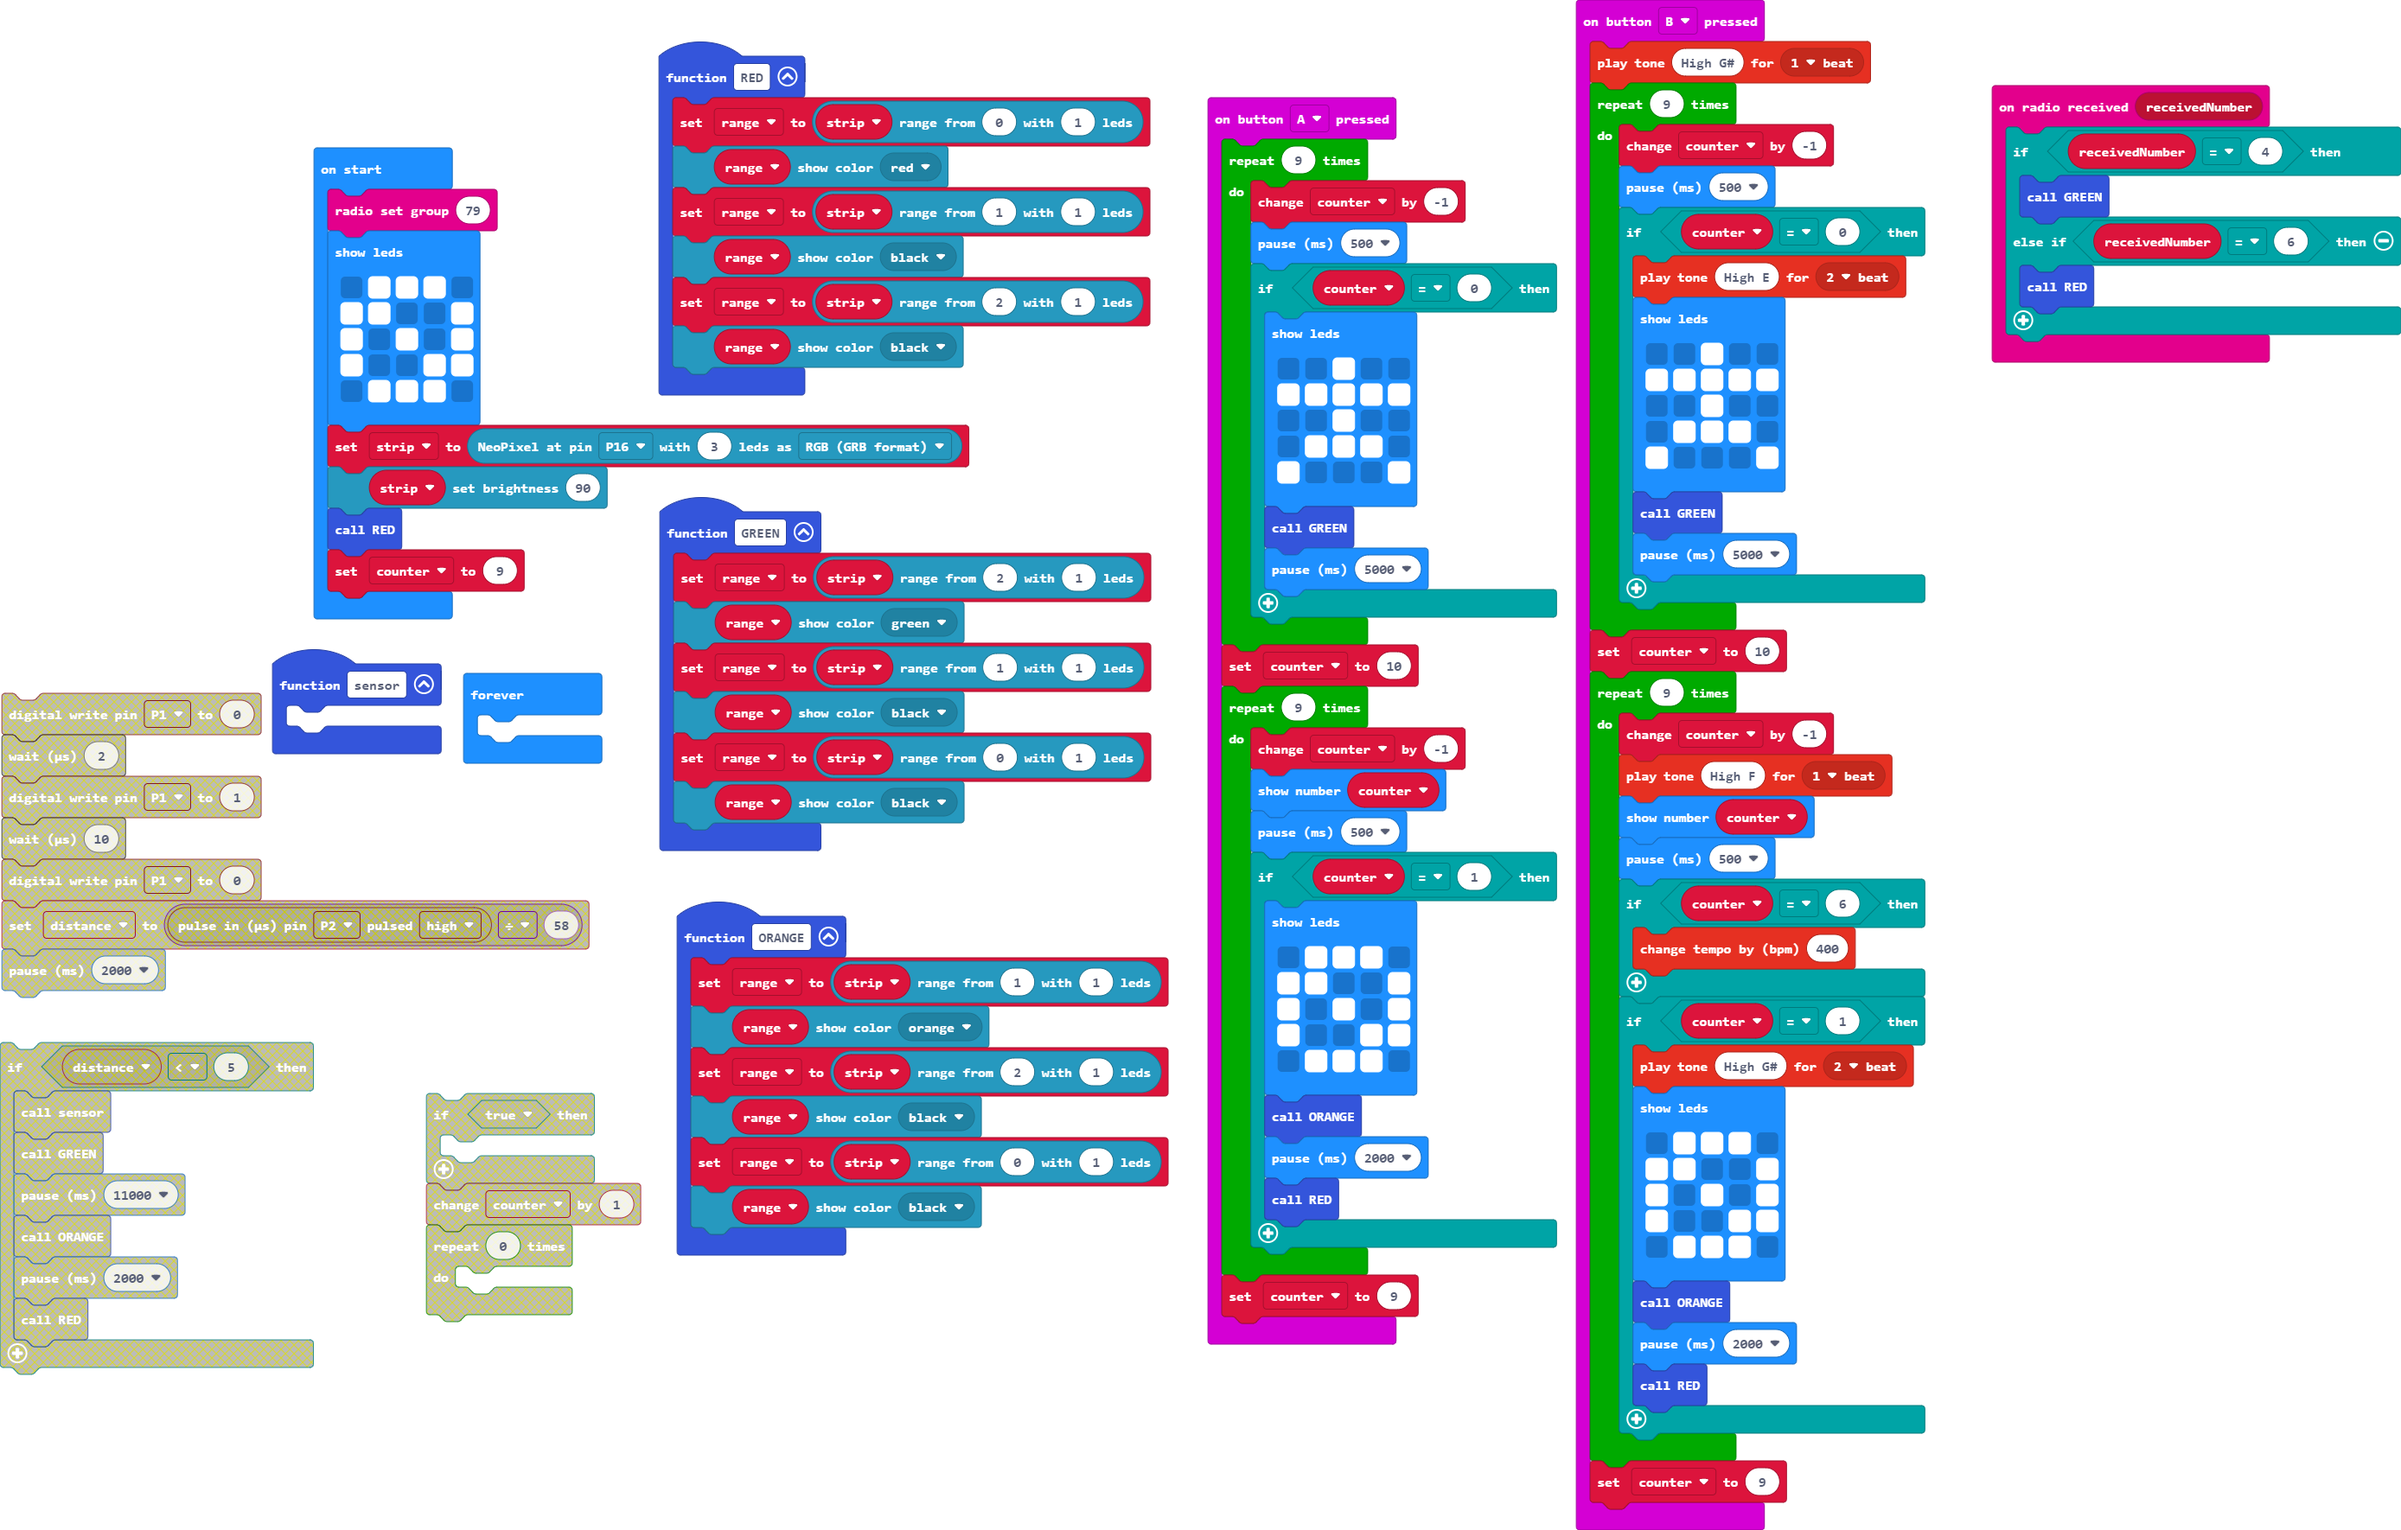
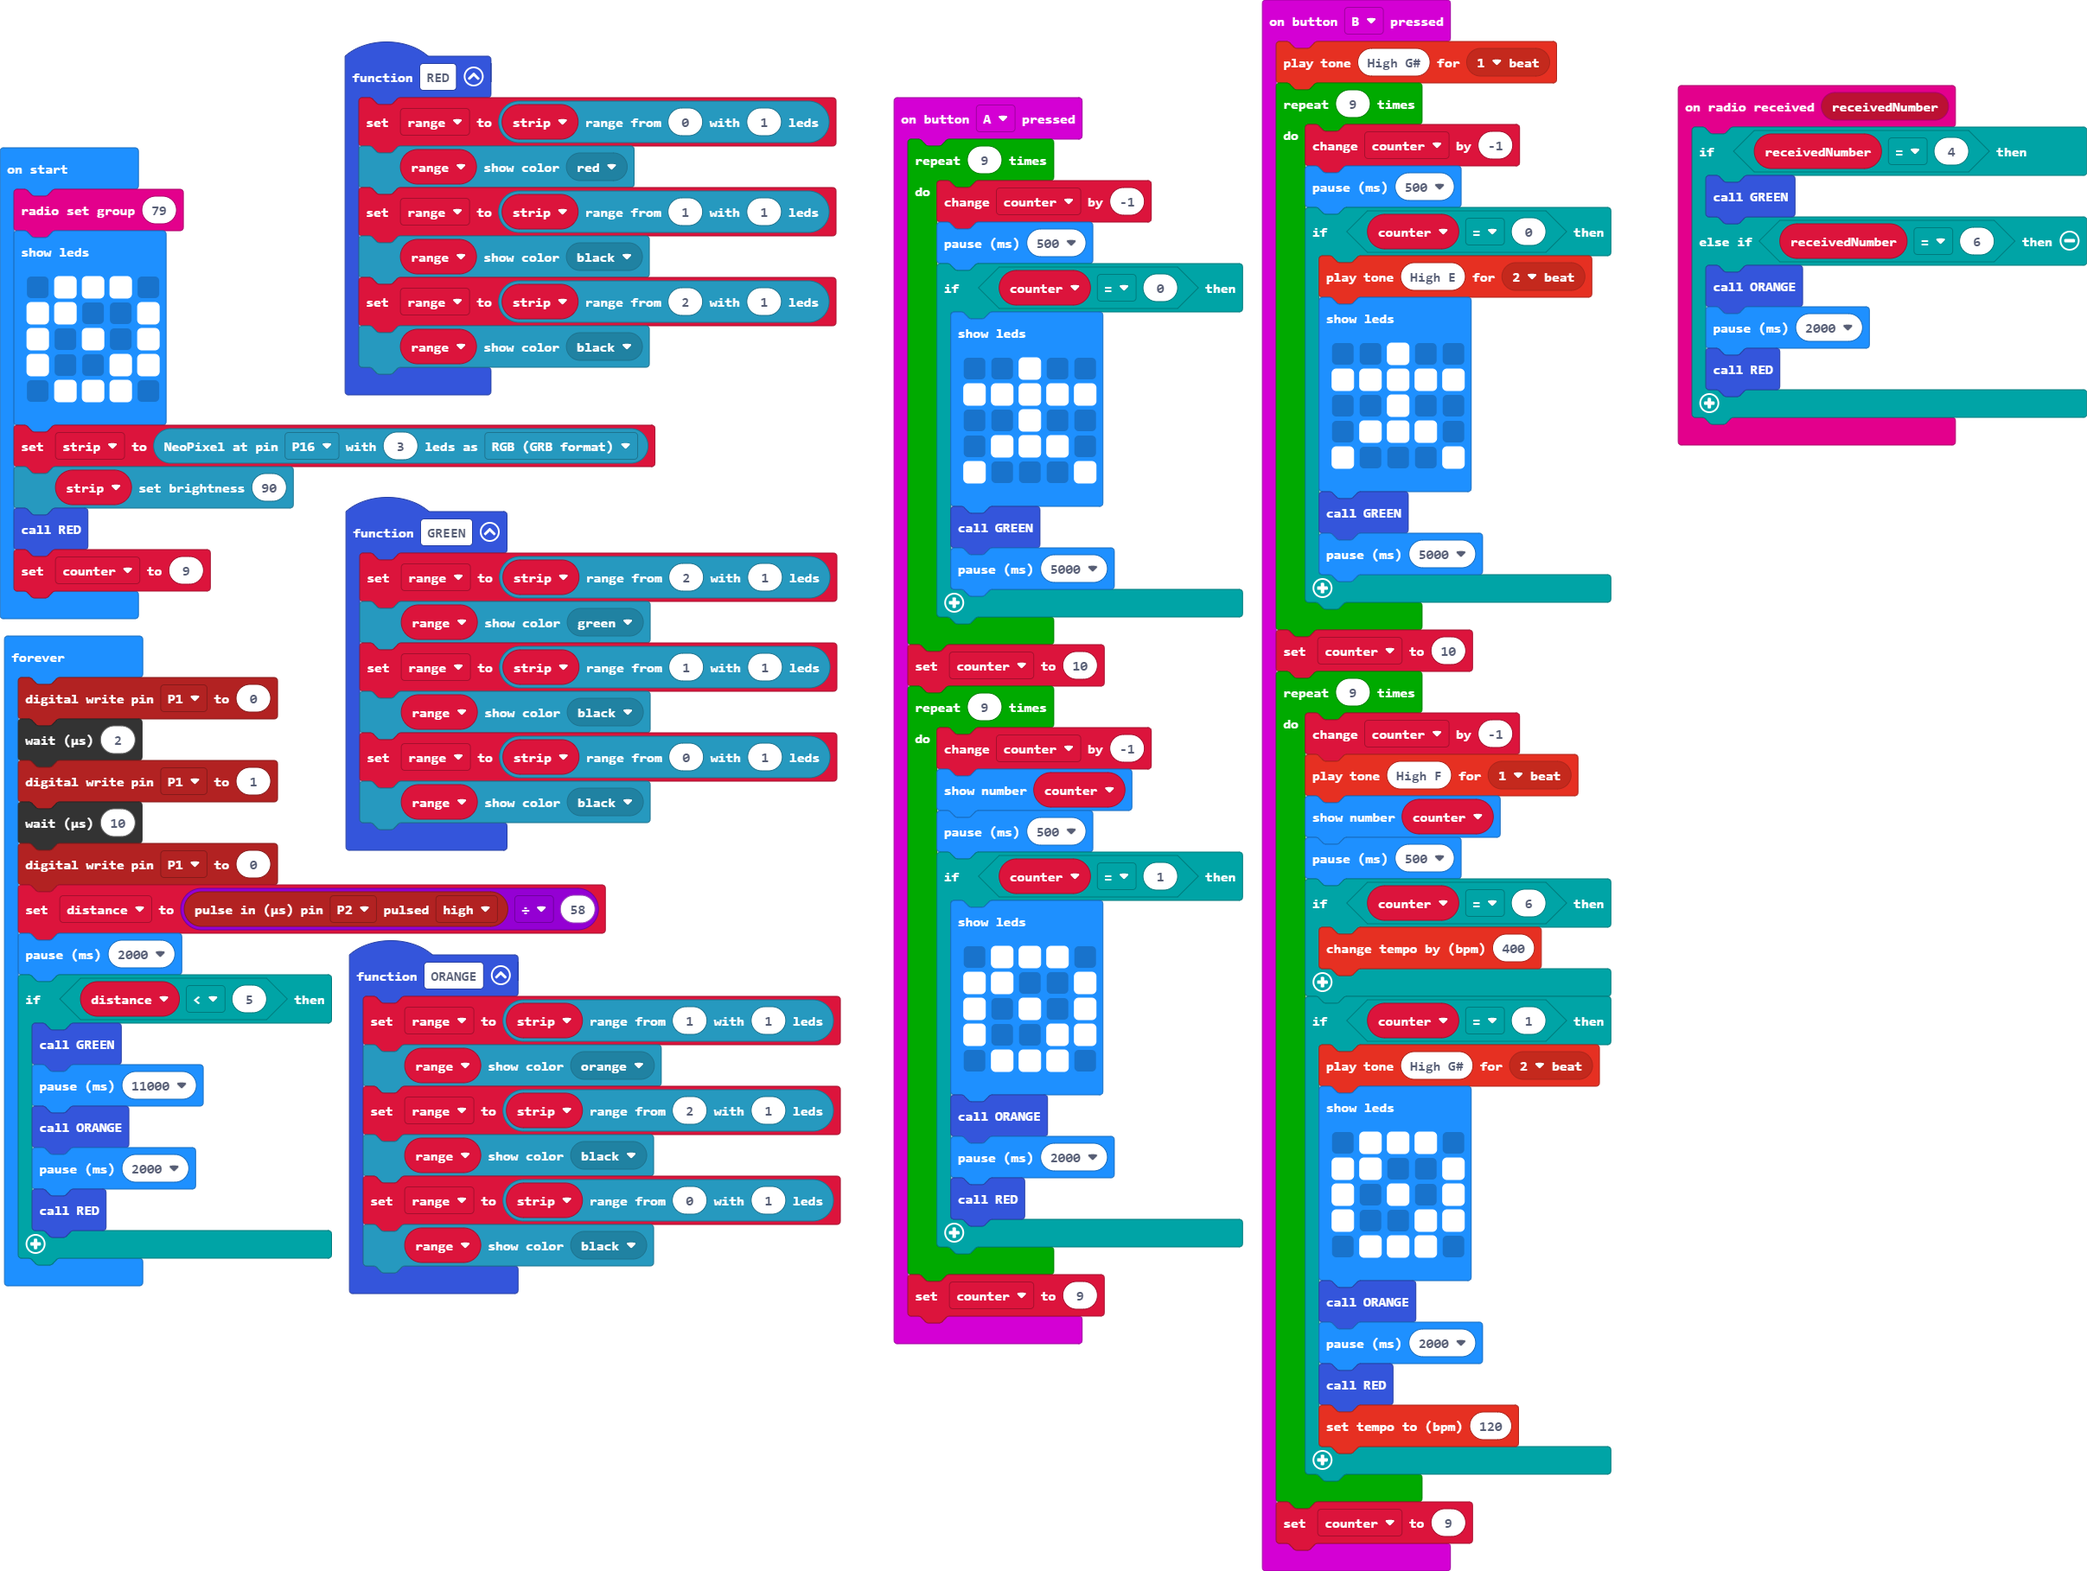
Update main.blocks, main.ts

diff --git a/main.ts b/main.ts
@@ -2,6 +2,8 @@ radio.onReceivedNumber(function (receivedNumber) {
     if (receivedNumber == 4) {
         GREEN()
     } else if (receivedNumber == 6) {
+        ORANGE()
+        basic.pause(2000)
         RED()
     }
 })
@@ -96,13 +98,11 @@ input.onButtonPressed(Button.B, function () {
             ORANGE()
             basic.pause(2000)
             RED()
+            music.setTempo(120)
         }
     }
     counter = 9
 })
-function sensor () {
-	
-}
 function ORANGE () {
     range = strip.range(1, 1)
     range.showColor(neopixel.colors(NeoPixelColors.Orange))
@@ -111,6 +111,7 @@ function ORANGE () {
     range = strip.range(0, 1)
     range.showColor(neopixel.colors(NeoPixelColors.Black))
 }
+let distance = 0
 let range: neopixel.Strip = null
 let counter = 0
 let strip: neopixel.Strip = null
@@ -127,5 +128,18 @@ strip.setBrightness(90)
 RED()
 counter = 9
 basic.forever(function () {
-	
+    pins.digitalWritePin(DigitalPin.P1, 0)
+    control.waitMicros(2)
+    pins.digitalWritePin(DigitalPin.P1, 1)
+    control.waitMicros(10)
+    pins.digitalWritePin(DigitalPin.P1, 0)
+    distance = pins.pulseIn(DigitalPin.P2, PulseValue.High) / 58
+    basic.pause(2000)
+    if (distance < 5) {
+        GREEN()
+        basic.pause(11000)
+        ORANGE()
+        basic.pause(2000)
+        RED()
+    }
 })
